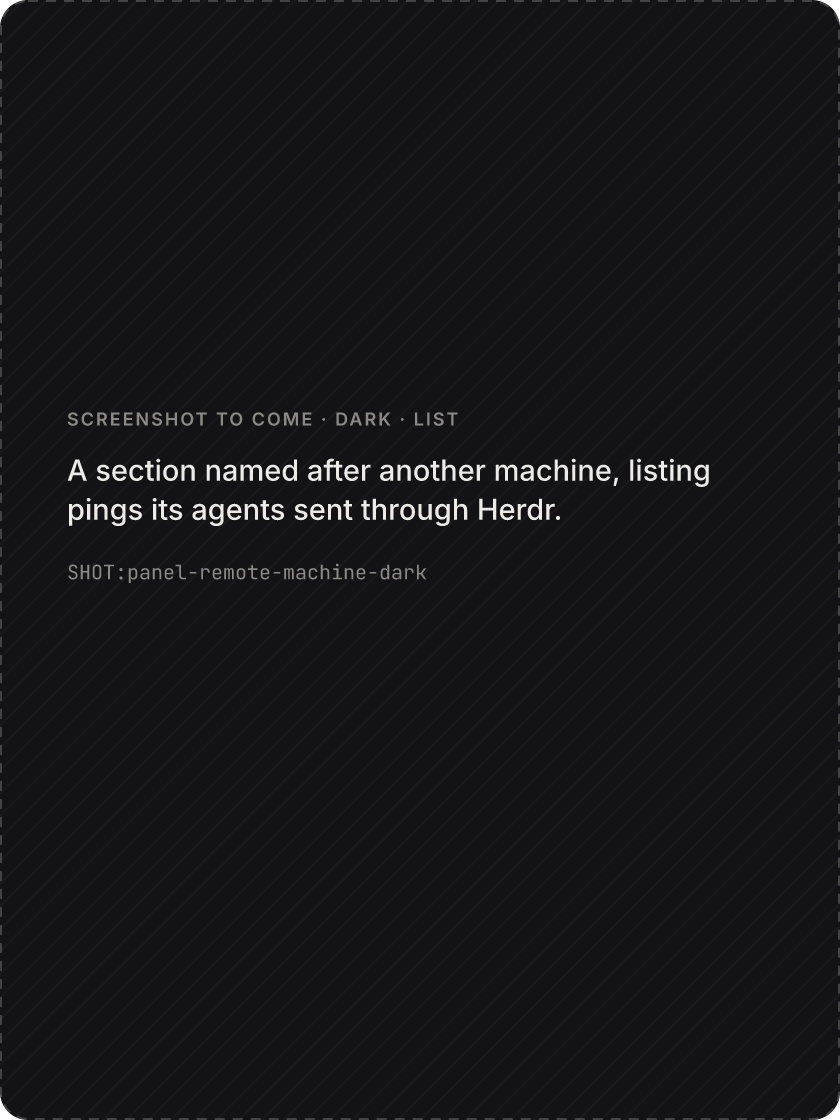
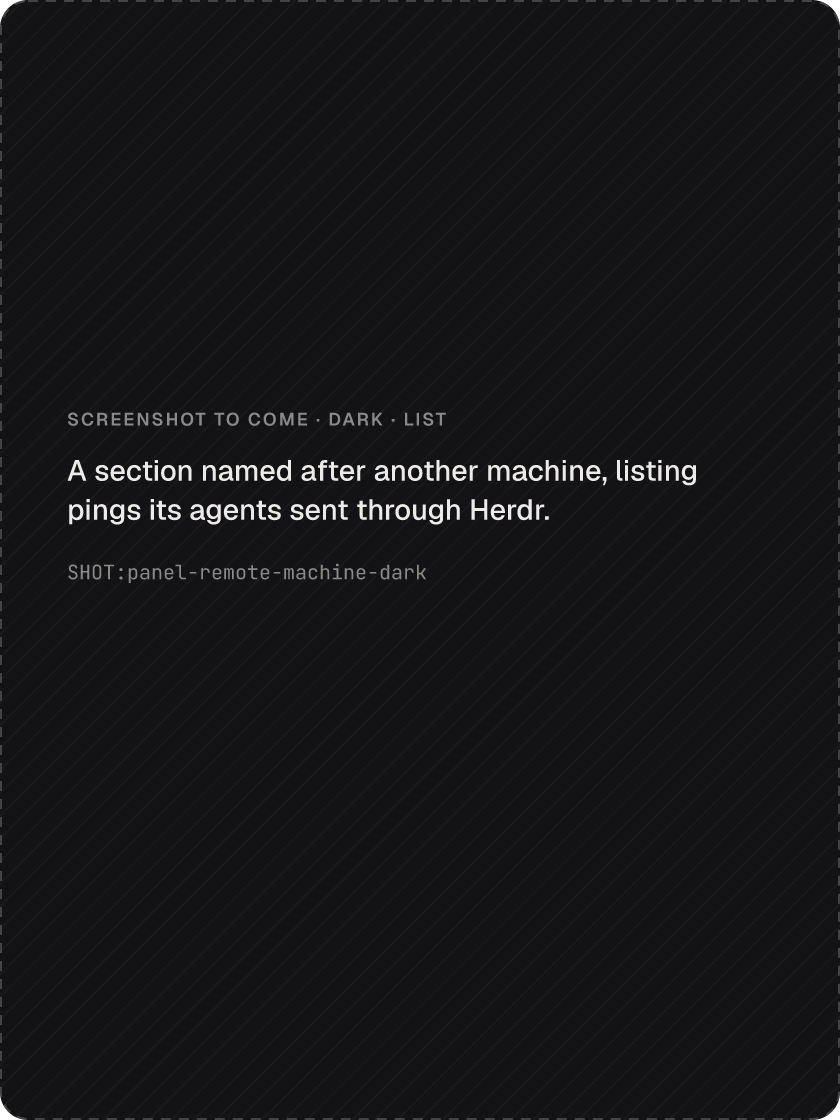
feat(site): show the docs' screenshots in pairs, and stop the configuration tables scrolling sideways
- each section and preset shows two related shots side by side; the new ones are placeholders until they're captured
- the github setup view is captured on the maintainer's app; it shows only the login and how it connected
- tables have fixed column shares and wrap long code, inline code wraps everywhere outside code blocks, and the main column is 640 px
- the docs page no longer scrolls sideways at 1440, 1180 or 390 px

Changed region(s): [[0.0929, 0.3438, 0.8667, 0.4688], [0.4024, 0.3438, 0.4643, 0.375]]

diff --git a/site/src/docs/docs.css b/site/src/docs/docs.css
@@ -10,6 +10,7 @@ body{margin:0;background:var(--bg)}
 .dx b,.dx strong{color:var(--fg);font-weight:500}
 .dx code{font:400 .86em/1.4 var(--mono);color:var(--fg);background:var(--tint);padding:var(--hair) var(--radius-xs);border-radius:var(--radius-xs);white-space:nowrap}
 .dx code,.dx pre{font-variant-ligatures:none}
+.dx :not(pre)>code{white-space:normal;overflow-wrap:anywhere}
 .dx pre code{background:none;padding:0;border-radius:0;white-space:pre;color:var(--text)}
 .dx :focus-visible{outline:var(--focus) solid var(--fg);outline-offset:var(--focus-offset);border-radius:var(--sp-1)}
 .dx img{display:block;max-width:100%;height:auto}
@@ -58,7 +59,9 @@ body{margin:0;background:var(--bg)}
 .dx .sub{margin:var(--sp-5) 0 0;font:400 var(--type-sub)/1.45 var(--sans);letter-spacing:var(--tracking-tight);color:var(--text)}
 .dx main p{margin:0 0 var(--sp-6);color:var(--text)}
 .dx .intro{margin-top:var(--sp-11)}
-.dx .hero-pair{display:grid;grid-template-columns:repeat(2,minmax(0,1fr));gap:var(--sp-5);align-items:start;margin-top:var(--sp-9)}
+.dx .shot-pair{display:grid;grid-template-columns:repeat(2,minmax(0,1fr));gap:var(--sp-5);align-items:start}
+.dx .shot-pair .shot{margin:0}
+.dx .hero-pair{margin-top:var(--sp-9)}
 
 /* sections */
 .dx .sec{position:relative;padding-top:var(--sp-17)}
@@ -78,7 +81,6 @@ body{margin:0;background:var(--bg)}
 .dx .sn .k{position:absolute;left:0;top:var(--hair);font-size:var(--type-label);color:var(--faint)}
 .dx .sn code{font-size:var(--type-micro)}
 .dx .sn.flash{color:var(--fg);transition:color .6s}
-.dx main :not(pre)>code{white-space:nowrap}
 
 /* figures and screenshots */
 .dx .fig{position:relative;margin:0}
@@ -110,12 +112,13 @@ body{margin:0;background:var(--bg)}
 .dx .tk-k{color:var(--tk-k)}.dx .tk-s{color:var(--tk-s)}.dx .tk-n{color:var(--tk-n)}.dx .tk-t{color:var(--tk-t)}.dx .tk-a{color:var(--tk-a)}.dx .tk-c{color:var(--tk-c);font-style:italic}
 
 /* tables */
-.dx .tbl{width:100%;border-collapse:collapse;font-size:var(--type-table);line-height:1.5}
+.dx .tbl{width:100%;table-layout:fixed;border-collapse:collapse;font-size:var(--type-table);line-height:1.5}
 .dx .tbl th{font:500 var(--type-th)/1.3 var(--sans);color:var(--mut);text-align:left;padding:0 var(--sp-5) var(--sp-3) 0;border-bottom:var(--hair) solid var(--line-2);white-space:nowrap}
 .dx .tbl td{padding:var(--sp-4) var(--sp-5) var(--sp-4) 0;border-bottom:var(--hair) solid var(--line);vertical-align:top;color:var(--text)}
 .dx .tbl td:first-child{color:var(--fg)}
-.dx .tbl td code{font-size:var(--type-small)}
-.dx .tbl .num{font-variant-numeric:tabular-nums;white-space:nowrap}
+.dx .tbl td code{font-size:var(--type-small);white-space:normal;overflow-wrap:anywhere}
+.dx .tbl th:nth-child(1){width:28%}.dx .tbl th:nth-child(2){width:24%}
+.dx .tbl .num{font-variant-numeric:tabular-nums}
 .dx .tbl-wrap{overflow-x:auto;margin:0 calc(-1 * var(--sp-0));padding:0 var(--sp-0)}
 
 /* the generated reference */

diff --git a/site/src/docs/content.ts b/site/src/docs/content.ts
@@ -109,7 +109,7 @@ export const SECTIONS: DocSection[] = [
       { lang: 'sh', code: 'shipyard ping send "PR #57 is ready for review" --from claude --open https://github.com/my-org/shop/pull/57\nshipyard ping send "Waiting for your input" --herdr --id shop-question\nshipyard ping withdraw shop-question\nshipyard notice send "Tests running" --from "claude · checkout" --id checkout-tests' },
     ],
     extra: 'pings',
-    shots: ['panel-pings-dark'],
+    shots: ['panel-pings-dark', 'pings-tabs-light'],
     after: '<p>If your <code>config.toml</code> lists its own notification rules, add <code>{ event = "ping.sent" }</code> to hear about pings, and <code>{ event = "agent.notice" }</code> to let notices through: a project whose rules leave <code>agent.notice</code> out refuses notices, and the agent is told.</p>',
   },
   {
@@ -124,7 +124,7 @@ export const SECTIONS: DocSection[] = [
       { label: 'ntn', lang: 'sh', code: 'curl -fsSL https://ntn.dev | bash\nntn login\nntn doctor' },
       { label: 'Hide one project\'s', lang: 'toml', code: '[[projects]]\nslug = "shop"\nrepositories = ["my-org/shop"]\nnotes = { show = false }' },
     ],
-    shots: ['panel-notes-dark'],
+    shots: ['panel-notes-dark', 'view-notion-dark'],
   },
   {
     id: 'skill', title: 'The agent skill', nav: 'The agent skill',
@@ -138,7 +138,7 @@ export const SECTIONS: DocSection[] = [
       { label: 'Install', lang: 'sh', code: INSTALL.skill },
       { label: 'Check an edit', lang: 'sh', code: 'shipyard config check\ntaplo check ~/.config/shipyard/config.toml' },
     ],
-    shots: ['view-skill-dark'],
+    shots: ['view-skill-dark', 'config-warning-dark'],
   },
   {
     id: 'machines', title: 'Other machines', nav: 'Other machines',
@@ -152,7 +152,7 @@ export const SECTIONS: DocSection[] = [
       { label: 'On the machine', lang: 'sh', code: INSTALL.plugin },
       { label: 'config.toml', lang: 'toml', code: '[remote]\nmachines = ["build-box"]' },
     ],
-    shots: ['panel-remote-machine-dark'],
+    shots: ['panel-remote-machine-dark', 'remote-machine-tabs-light'],
   },
   {
     id: 'configuration', title: 'Configuration reference', nav: 'Configuration',
@@ -174,7 +174,7 @@ export const SECTIONS: DocSection[] = [
       'The <code>app</code>, <code>panel</code> and <code>lease</code> groups drive the app on the Mac, one agent at a time. The holder shows as a yellow dot on the menu bar icon and a banner on the panel.',
     ],
     extra: 'commands',
-    shots: ['view-cli-dark'],
+    shots: ['view-cli-dark', 'cli-help-dark'],
   },
   {
     id: 'limits', title: 'Limits', nav: 'Limits',

diff --git a/site/src/docs/Docs.tsx b/site/src/docs/Docs.tsx
@@ -138,7 +138,7 @@ function Presets() {
           <h3 className="keys-h"><code>{p.id}</code></h3>
           <Html as="p" html={tidy(inlineMd(p.about))} />
           <dl className="pdl"><div><dt>For</dt><Html as="dd" html={inlineMd(p.for)} /></div><div><dt>Asks for</dt><Html as="dd" html={inlineMd(p.asks)} /></div></dl>
-          <Shot id={`preset-${p.id}-dark`} />
+          <div className="shot-pair"><Shot id={`preset-${p.id}-dark`} /><Shot id={`preset-${p.id}-light`} /></div>
           <details className="whole"><summary>The whole file</summary><CodeBlock code={p.file} lang="toml" target="config" /></details>
         </div>
       ))}
@@ -189,7 +189,7 @@ function Section({ s, index }: { s: DocSection; index: number }) {
       {s.body ? <Html as="div" className="body" html={tidyParagraphs(withMarkers(s.body, numbers))} /> : null}
       {s.extra === 'install' ? <Extras s={s} /> : null}
       {s.code && !s.codeLast ? <CodeTabs code={s.code} target={(i) => (s.code![i].lang === 'toml' ? 'config' : 'command')} /> : null}
-      {s.shots?.map((id) => <Shot key={id} id={id} />)}
+      {s.shots ? <div className="shot-pair">{s.shots.map((id) => <Shot key={id} id={id} />)}</div> : null}
       {s.extra && s.extra !== 'install' ? <Extras s={s} /> : null}
       {s.after ? <Html as="div" className="body after" html={tidyParagraphs(s.after)} /> : null}
       {s.code && s.codeLast ? <CodeTabs code={s.code} target={() => 'command'} /> : null}
@@ -338,7 +338,7 @@ export function Docs({ home = '/' }: { home?: string }) {
           <div className="head"><BrandLinks /></div>
           <h1 className="title">{OPENING.head}</h1>
           <p className="sub">{OPENING.sub}</p>
-          <div className="hero-pair">
+          <div className="shot-pair hero-pair">
             {/* SHOT:landing-tabs-dark */}
             <Shot id="landing-tabs-dark" bare />
             {/* SHOT:landing-list-light */}

diff --git a/site/src/site.test.ts b/site/src/site.test.ts
@@ -113,7 +113,7 @@ describe('screenshots', () => {
   it('cover every id the pages use', () => {
     const used = [
       ...SECTIONS.flatMap((s) => s.shots ?? []),
-      ...referenceData().presets.map((p) => `preset-${p.id}-dark`),
+      ...referenceData().presets.flatMap((p) => [`preset-${p.id}-dark`, `preset-${p.id}-light`]),
       ...walk(site('src')).flatMap((f) => [...readFileSync(f, 'utf8').matchAll(/SHOT:([a-z0-9-]+)|<Shot id="([a-z0-9-]+)"/g)].map((m) => m[1] ?? m[2])),
     ];
     expect(used.length).toBeGreaterThan(10);

diff --git a/site/src/tokens.css b/site/src/tokens.css
@@ -110,7 +110,7 @@
   --sp-20:160px;
 
   /* sizes */
-  --col:560px;
+  --col:640px;
   --nav:250px;
   --mar:224px;
   --g1:72px;
